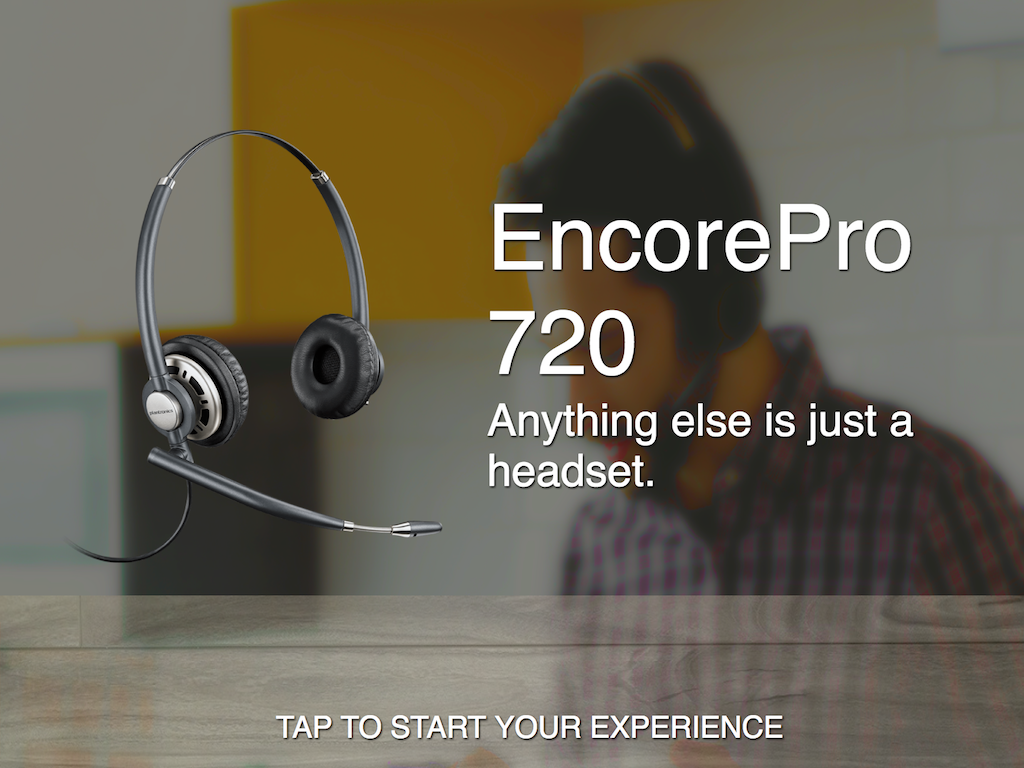
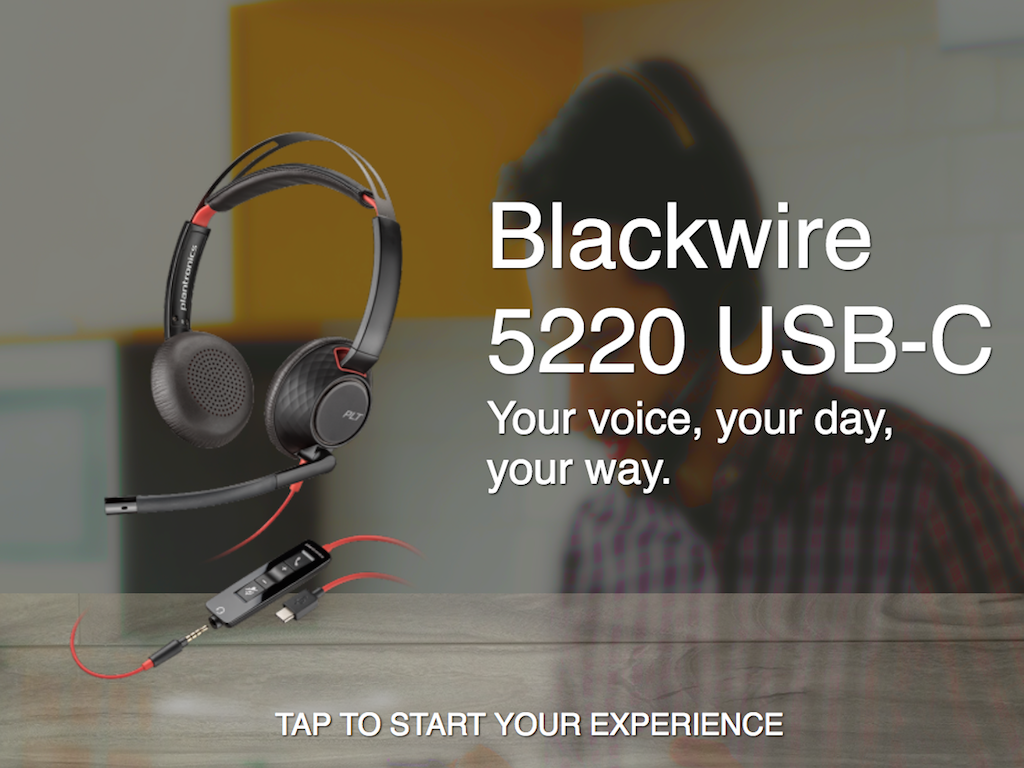
updating exhibit 2 on 4/4/2018

diff --git a/EBC_App/www/exhibit2.html b/EBC_App/www/exhibit2.html
@@ -93,39 +93,39 @@
                     <div class="row padded">
                         <div class="col-6">
                             <div class="header-text">
-                                <div id="main-header">EncorePro 720</div>
-                                <div id="secondary-header">Anything else is just a headset.</div>
+                                <div id="main-header">Blackwire 5220 USB-C</div>
+                                <div id="secondary-header">Your voice, your day, your way.</div>
                             </div>
                             <div class="features">
                                 <h3>KEY FEATURES</h3>
                                 <ul>
                                     <li class="main-feature" id="feature4">
-                                        Luxurious Comfort. Distinctive Design.
+                                        All-day comfort and universal connectivity
                                         <ul>
-                                            <li>Elegant, satin finish and slim, stylish design make anyone proud to wear it.</li>
+                                            <li>Ergonomically designed, it's comfortable enough to wear all day, on your longest calls. To make it easier for you to work anywhere in the office, it also gives you the freedom to plug into the compatible device of your choice.</li>
                                         </ul>
                                     </li>
                                     <li class="main-feature" id="feature5">
-                                        Exceptional Audio
+                                        Outstanding audio quality for better productivity
                                         <ul>
-                                            <li>Unique, extendable boom ensures precise positioning, enables optimal noise cancelation, and means customers hear every word.</li>
+                                            <li>With the Blackwire 5200 Series, you’ll be able to hear and be heard more clearly, enjoy conversation privacy and be more productive. </li>
                                         </ul>
                                     </li>
                                     <li class="main-feature" id="feature6">
-                                        Long-Term Reliability
+                                        Rapid deployment, future ready
                                         <ul>
-                                            <li>Designed for the rigors of call-intensive environments, minimizing operational disruptions and costly downtime.</li>
+                                            <li>Easy installation and UC Toolkit resources make IT deployment and management painless, while upgradable firmware and software ensure compatibilty and feature support.</li>
                                         </ul>
                                     </li>
                                     <div class="show-more">
                                         <li class="main-feature">
-                                            Conveniently Situated Microphone Arm
+                                            Lightweight design
                                         </li>
                                         <li class="main-feature">
-                                            Wideband Audio 
+                                            Wearing style choice
                                         </li>
                                         <li class="main-feature">
-                                            Reinforced, Lightweight Headband 
+                                            Dynamic EQ
                                         </li>
                                     </div>
                                     <li class="view-more">
@@ -138,7 +138,7 @@
                             <div class="center">
                                 <div class="spot-container">
                                     <div class="product">
-                                        <img src="media/exhibit2/product-1.png" class="prodImg">
+                                        <img src="media/exhibit2/product-1.png" id="blackwire">
                                     </div>
                                     <div id="spot4-off" class="spot"></div>
                                     <div id="spot5-off" class="spot"></div>

diff --git a/EBC_App/www/js/swiper_exhibit2.js b/EBC_App/www/js/swiper_exhibit2.js
@@ -1177,7 +1177,7 @@
             if (!s.params.pagination) return;
             if (s.paginationContainer && s.paginationContainer.length > 0) {
                 var paginationHTML = '';
-                var titles = ["CS500 SERIES", "ENCOREPRO 720", "CALISTO 620 BLUETOOTH", "SAVI 700 SERIES"];
+                var titles = ["CS500 SERIES", "BLACKWIRE 5220 USB-C", "CALISTO 620 BLUETOOTH", "SAVI 700 SERIES"];
                 if (s.params.paginationType === 'bullets') {
                     var numberOfBullets = s.params.loop ? Math.ceil((s.slides.length - s.loopedSlides * 2) / s.params.slidesPerGroup) : s.snapGrid.length;
                     for (var i = 0; i < numberOfBullets; i++) {
@@ -1188,7 +1188,7 @@
                             if(i === 0) {
                                 paginationHTML += '<div class="' + s.params.bulletClass + '"><img src="media/exhibit2/product-' + i + '.png" style="height: 90px; margin-left: 22px; margin-bottom: 3px"> <span class="inline-title">'+ titles[i] +'</span></div>';
                             } else if(i === 1) {
-                                paginationHTML += '<div class="' + s.params.bulletClass + '"><img src="media/exhibit2/product-' + i + '.png" style="height: 95px; margin-bottom: -4px"> <span class="inline-title" style="margin-left: -9px">'+ titles[i] +'</span></div>';
+                                paginationHTML += '<div class="' + s.params.bulletClass + '"><img src="media/exhibit2/product-' + i + '.png" style="height: 105px; margin-bottom: -11px"> <span class="inline-title" style="margin-left: -60px">'+ titles[i] +'</span></div>';
                             } else if(i === 2) {
                                 paginationHTML += '<div class="' + s.params.bulletClass + '"><img src="media/exhibit2/product-' + i + '.png" style="height: 70px; margin-left: 14px; margin-bottom: 2px"> <span class="inline-title" style="margin-left: -35px">'+ titles[i] +'</span></div>';
                             } else {

diff --git a/EBC_App/www/css/style_exhibit2.css b/EBC_App/www/css/style_exhibit2.css
@@ -37,6 +37,13 @@
     position: absolute;
     z-index: 10;
 }
+#blackwire{
+    height: 630px;
+    margin-top: 6px;
+    margin-left: 35px;
+    position: absolute;
+    z-index: 10;
+}
 .prodImg{
     height: 450px;
     margin-top: 90px;
@@ -282,42 +289,42 @@ h3{
 }
 #spot4 {
     position: absolute;
-    margin-top: 55%;
-    left: 45%;
+    margin-top: 1%;
+    left: 43%;
     z-index:10;
 }
 #spot4-off {
     position: absolute;
-    margin-top: 63%;
-    left: 53%;
+    margin-top: 9%;
+    left: 51%;
     z-index:10;
     height: 10px;
     width: 10px;
 }
 #spot5 {
     position: absolute;
-    margin-top: 88%;
-    left: 67%;
+    margin-top: 41%;
+    left: 28%;
     z-index:10;
 }
 #spot5-off {
     position: absolute;
-    margin-top: 96%;
-    left: 75%;
+    margin-top: 49%;
+    left: 36%;
     z-index:10;
     height: 10px;
     width: 10px
 }
 #spot6 {
     position: absolute;
-    margin-top: 8%;
-    right: 54%;
+    margin-top: 84%;
+    right: 36%;
     z-index:10;
 }
 #spot6-off {
     position: absolute;
-    margin-top: 16%;
-    right: 62%;
+    margin-top: 92%;
+    right: 43%;
     z-index:10;
     height: 10px;
     width: 10px

diff --git a/EBC_App/www/screensavers/BLACKWIRE5220-screensaver.html b/EBC_App/www/screensavers/BLACKWIRE5220-screensaver.html
@@ -18,7 +18,7 @@
             height: 175px;
         }
         .prodImg{
-            height: 430px;
+            height: 630px;
             position: absolute;
             z-index: 10;
             left: 60px;
@@ -53,8 +53,8 @@
                 </div>
                 <div class="col-6">
                     <div class="text-screensaver">
-                        <div id="main-header" class="header-0">EncorePro 720</div>
-                        <div id="secondary-header">Anything else is just a headset.</div>
+                        <div id="main-header" class="header-0">Blackwire 5220 USB-C</div>
+                        <div id="secondary-header">Your voice, your day, your way.</div>
                     </div>
                 </div>
         </div>
